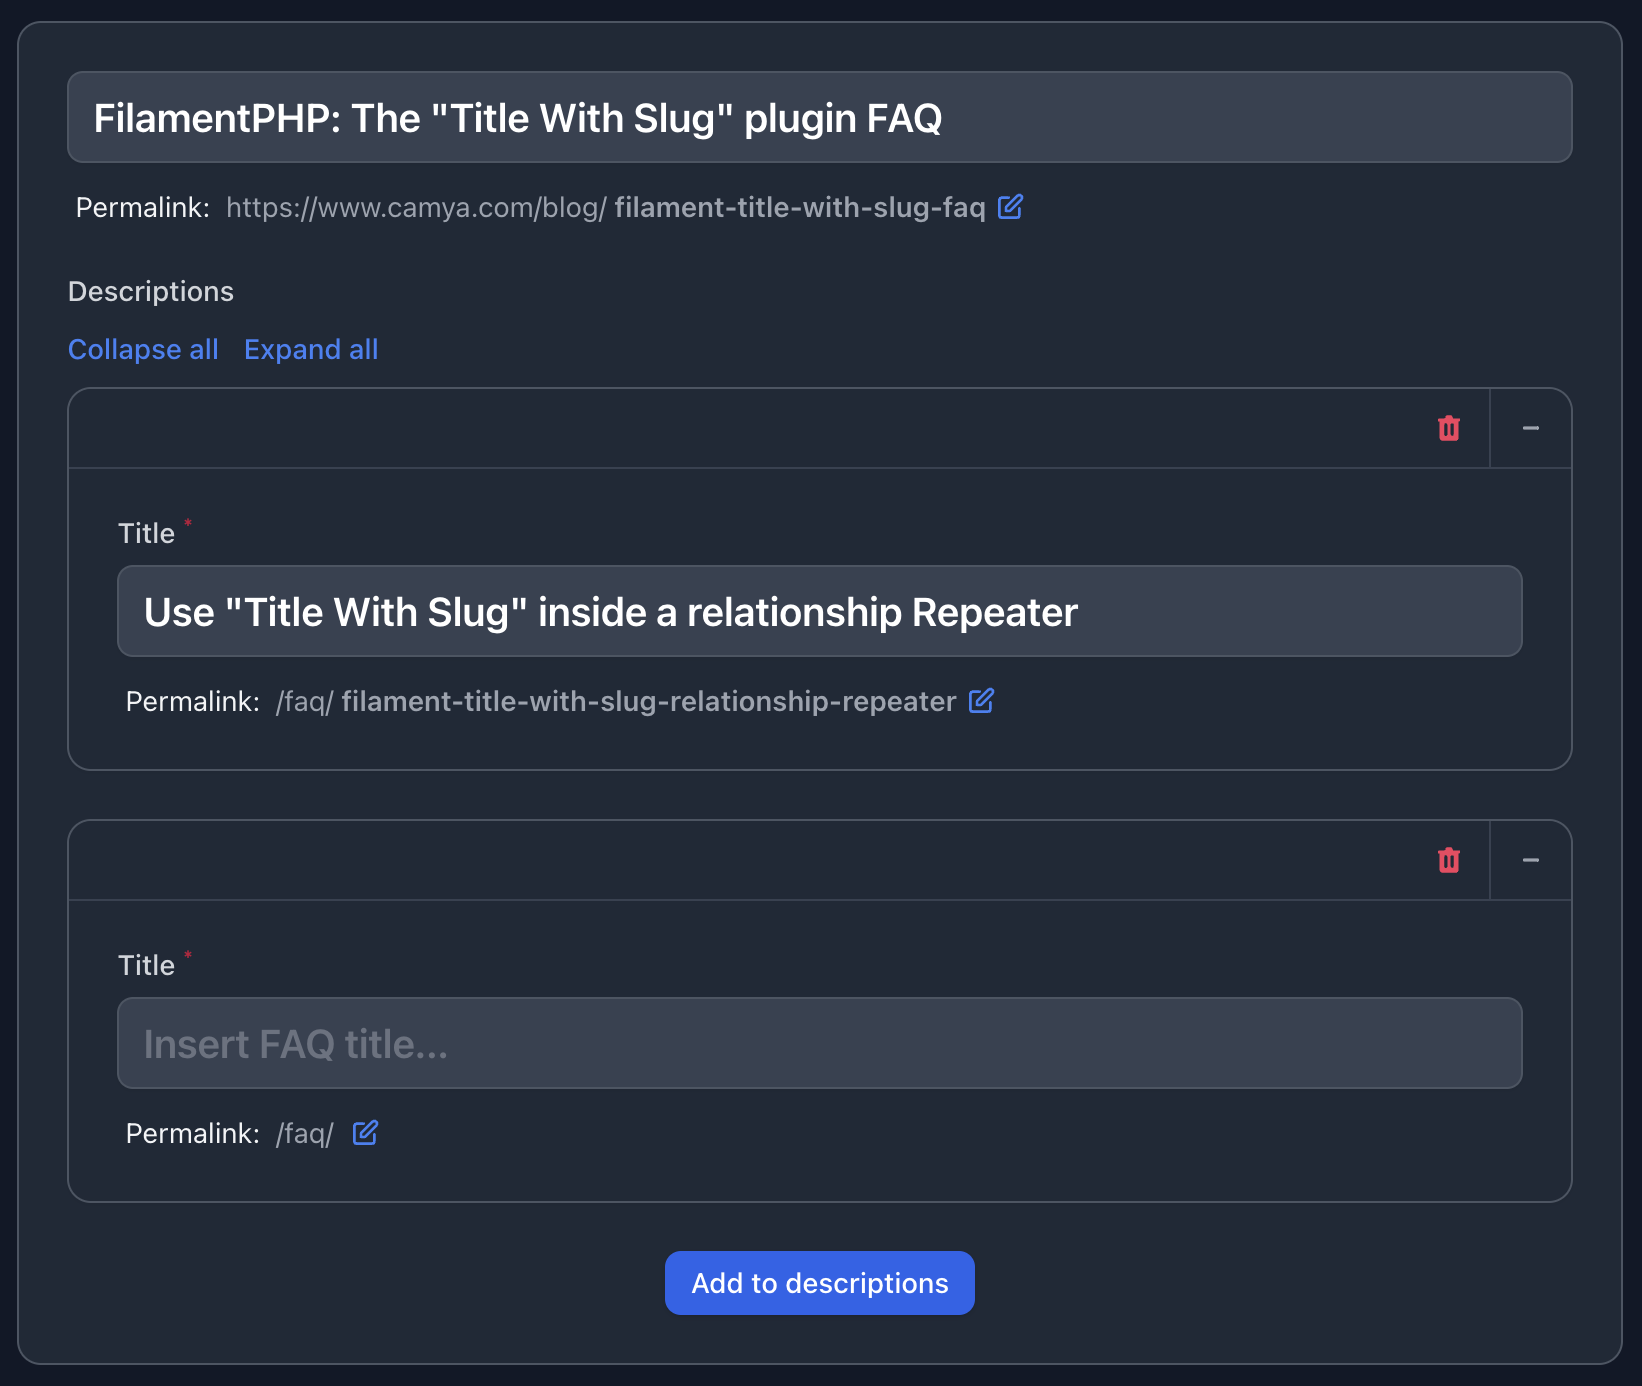
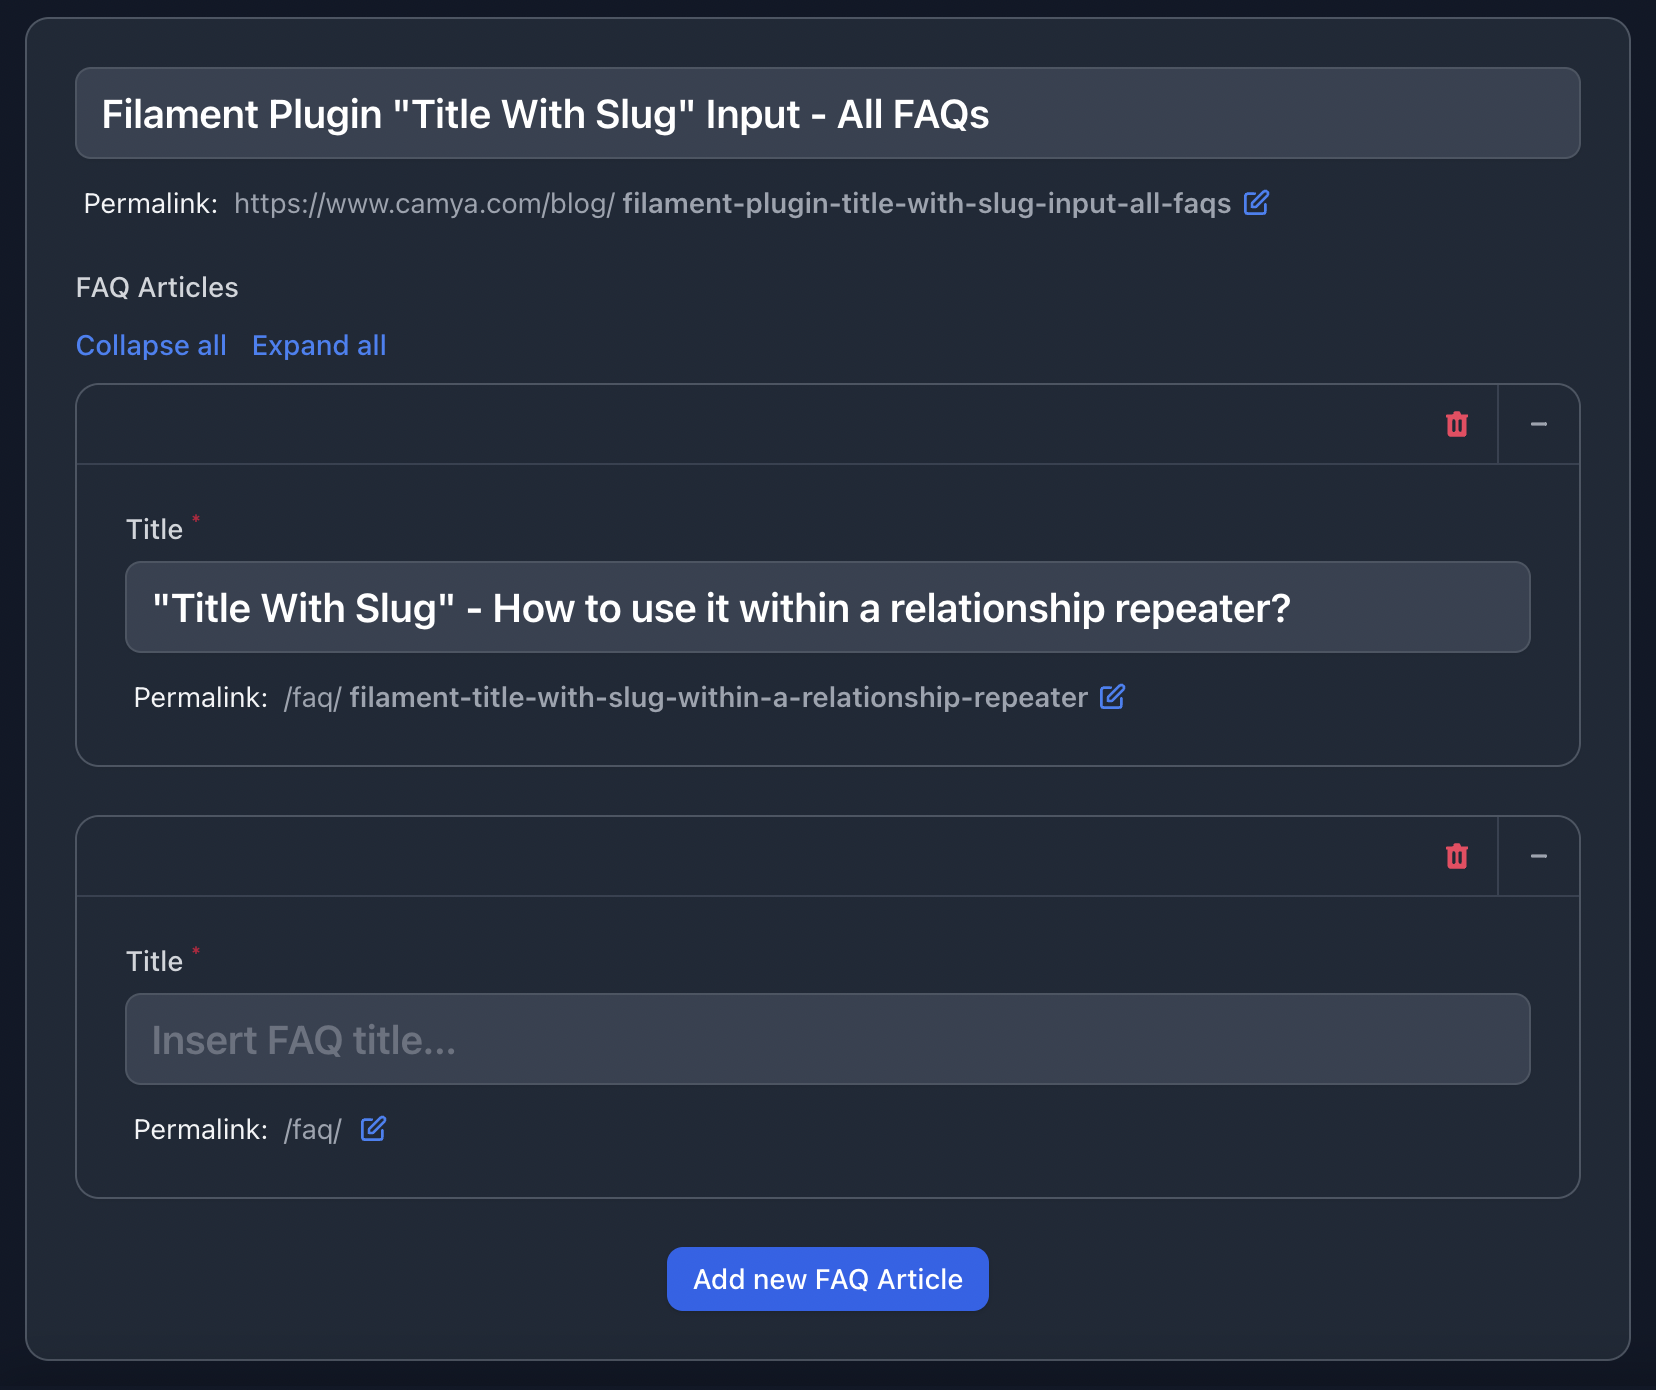
Pest Tests, titleAfterStateUpdated hook,  removed duplicate unique().
- Added Pest tests
- "composer test" now runs pest + phpstan + pint (dry)
- Added titleAfterStateUpdated & slugAfterStateUpdated, see https://github.com/camya/filament-title-with-slug/discussions/3
- Optimized slugAutoUpdateDisabled
- Placeholder now generated with headline() instead of title()
- Removed duplicate unique() in SlugInput, see https://github.com/camya/filament-title-with-slug/discussions/4
- Optimized slugify() method.

diff --git a/tests/Forms/Components/TitleWithSlugInputTest.php b/tests/Forms/Components/TitleWithSlugInputTest.php
@@ -1,0 +1,86 @@
+<?php
+
+use Camya\Filament\Forms\Components\TitleWithSlugInput;
+use Camya\Filament\Tests\Support\TestableForm;
+use Livewire\Livewire;
+
+it('returns OK if component is used', function () {
+    TestableForm::$formSchema = [
+
+        TitleWithSlugInput::make(),
+
+    ];
+
+    $component = Livewire::test(TestableForm::class);
+
+    $component->assertOk();
+});
+
+it('fills view correctly with default component parameters', function () {
+    TestableForm::$formSchema = [
+
+        TitleWithSlugInput::make(),
+
+    ];
+
+    $component = Livewire::test(TestableForm::class)
+        ->set([
+            'data.title' => 'Persisted Title',
+            'data.slug' => 'persisted-slug',
+        ]);
+
+    $component
+        ->assertSeeHtml('wire:model="data.title"')
+        ->assertSeeHtml('wire:model="data.slug"')
+        ->assertSet('data.title', 'Persisted Title')
+        ->assertSet('data.slug', 'persisted-slug')
+        ->assertSeeHtml('<span class="mr-1">&shy;persisted-slug</span>');
+});
+
+it('fills view correctly with overwritten component parameters', function () {
+    TestableForm::$formSchema = [
+
+        TitleWithSlugInput::make(
+            fieldTitle: 'TitleFieldName',
+            fieldSlug: 'SlugFieldName',
+            urlVisitLinkLabel: '*Visit Link Label*',
+            titleLabel: '*Title Label*',
+            titlePlaceholder: '*Title Placeholder*',
+            slugLabel: '*Slug Label*',
+        ),
+
+    ];
+
+    $component = Livewire::test(TestableForm::class)
+        ->set([
+            'data.TitleFieldName' => 'Persisted Title',
+            'data.SlugFieldName' => 'persisted-slug',
+        ]);
+
+    $component
+        ->assertSeeHtml('wire:model="data.TitleFieldName"')
+        ->assertSeeHtml('wire:model="data.SlugFieldName"')
+        ->assertSee('*Title Label*')
+        ->assertSee('*Slug Label*')
+        ->assertSee('*Visit Link Label*')
+        ->assertSeeHtml('placeholder="*Title Placeholder*"');
+});
+
+it('does not show the visit link if it is set invisible', function () {
+    TestableForm::$formSchema = [
+
+        TitleWithSlugInput::make(
+            urlVisitLinkVisible: false,
+            urlVisitLinkLabel: '*Visit Link Label*',
+        ),
+
+    ];
+
+    $component = Livewire::test(TestableForm::class)
+        ->set([
+            'data.TitleFieldName' => 'Persisted Title',
+            'data.SlugFieldName' => 'persisted-slug',
+        ]);
+
+    $component->assertDontSee('*Visit Link Label*');
+});

diff --git a/src/Forms/Components/TitleWithSlugInput.php b/src/Forms/Components/TitleWithSlugInput.php
@@ -7,6 +7,7 @@ use Closure;
 use Filament\Forms\Components\Group;
 use Filament\Forms\Components\Hidden;
 use Filament\Forms\Components\TextInput;
+use Filament\Support\Components\Component;
 use Illuminate\Database\Eloquent\Model;
 use Illuminate\Support\Str;
 
@@ -36,6 +37,7 @@ class TitleWithSlugInput
         ],
         array $titleRuleUniqueParameters = [],
         bool|Closure $titleIsReadonly = false,
+        null|Closure $titleAfterStateUpdated = null,
 
         // Slug
         string|null $slugLabel = null,
@@ -45,17 +47,16 @@ class TitleWithSlugInput
         ],
         array $slugRuleUniqueParameters = [],
         bool|Closure $slugIsReadonly = false,
+        null|Closure $slugAfterStateUpdated = null,
         null|Closure $slugSlugifier = null,
         string|Closure|null $slugRuleRegex = '/^[a-z0-9\-\_]*$/',
 
     ): Group {
-
         $fieldTitle = $fieldTitle ?? config('filament-title-with-slug.field_title');
         $fieldSlug = $fieldSlug ?? config('filament-title-with-slug.field_slug');
         $urlHost = $urlHost ?? config('filament-title-with-slug.url_host');
 
         /** Input: "Title" */
-
         $textInput = TextInput::make($fieldTitle)
             ->disabled($titleIsReadonly)
             ->autofocus()
@@ -67,14 +68,21 @@ class TitleWithSlugInput
             ->beforeStateDehydrated(fn (TextInput $component, $state) => $component->state(trim($state)))
             ->afterStateUpdated(
 
-                function ($state, Closure $set, Closure $get, string $context, ?Model $record) use (
+                function (
+                    $state,
+                    Closure $set,
+                    Closure $get,
+                    string $context,
+                    ?Model $record,
+                    Component $component
+                ) use (
                     $slugSlugifier,
-                    $fieldSlug
+                    $fieldSlug,
+                    $titleAfterStateUpdated,
                 ) {
-
                     $slugAutoUpdateDisabled = $get('slug_auto_update_disabled');
 
-                    if ($context === 'edit' && $record?->slug) {
+                    if ($context === 'edit' && filled($record)) {
                         $slugAutoUpdateDisabled = true;
                     }
 
@@ -82,12 +90,15 @@ class TitleWithSlugInput
                         $set($fieldSlug, self::slugify($slugSlugifier, $state));
                     }
 
+                    if ($titleAfterStateUpdated) {
+                        $component->evaluate($titleAfterStateUpdated);
+                    }
                 }
 
             );
 
         if ($titlePlaceholder !== '') {
-            $textInput->placeholder($titlePlaceholder ?: fn () => Str::of($fieldTitle)->title());
+            $textInput->placeholder($titlePlaceholder ?: fn () => Str::of($fieldTitle)->headline());
         }
 
         if (! $titleLabel) {
@@ -103,7 +114,6 @@ class TitleWithSlugInput
         }
 
         /** Input: "Slug" (+ view) */
-
         $slugInput = SlugInput::make($fieldSlug)
 
             // Custom SlugInput methods
@@ -113,7 +123,7 @@ class TitleWithSlugInput
             ->slugInputContext(fn ($context) => $context === 'create' ? 'create' : 'edit')
             ->slugInputRecordSlug(fn (?Model $record) => $record?->$fieldSlug)
             ->slugInputModelName(fn (?Model $record) => $record
-                ? Str::of(class_basename($record))->title()
+                ? Str::of(class_basename($record))->headline()
                 : ''
             )
             ->slugInputLabelPrefix($slugLabel)
@@ -129,11 +139,19 @@ class TitleWithSlugInput
             ->disableLabel()
             ->regex($slugRuleRegex)
             ->rules($slugRules)
-            ->unique(ignorable: fn (?Model $record) => $record)
             ->afterStateUpdated(
 
-                function ($state, Closure $set, Closure $get) use ($slugSlugifier, $fieldTitle, $fieldSlug) {
-
+                function (
+                    $state,
+                    Closure $set,
+                    Closure $get,
+                    Component $component
+                ) use (
+                    $slugSlugifier,
+                    $fieldTitle,
+                    $fieldSlug,
+                    $slugAfterStateUpdated,
+                ) {
                     $text = trim($state) === ''
                         ? $get($fieldTitle)
                         : $get($fieldSlug);
@@ -142,6 +160,9 @@ class TitleWithSlugInput
 
                     $set('slug_auto_update_disabled', true);
 
+                    if ($slugAfterStateUpdated) {
+                        $component->evaluate($slugAfterStateUpdated);
+                    }
                 }
 
             );
@@ -151,7 +172,6 @@ class TitleWithSlugInput
             : $slugInput->unique(ignorable: fn (?Model $record) => $record);
 
         /** Input: "Slug Auto Update Disabled" (Hidden) */
-
         $hiddenInputSlugAutoUpdateDisabled = Hidden::make('slug_auto_update_disabled')
             ->dehydrated(false);
 
@@ -166,9 +186,9 @@ class TitleWithSlugInput
     }
 
     /** Fallback slugifier, over-writable with slugSlugifier parameter. */
-    protected static function slugify(Closure|null $slugifier, string $text): string
+    protected static function slugify(Closure|null $slugifier, string|null $text): string
     {
-        if (! trim($text)) {
+        if (is_null($text) || ! trim($text)) {
             return '';
         }
 

diff --git a/tests/Support/TestableForm.php b/tests/Support/TestableForm.php
@@ -1,0 +1,41 @@
+<?php
+
+namespace Camya\Filament\Tests\Support;
+
+use Filament\Forms\Concerns\InteractsWithForms;
+use Filament\Forms\Contracts\HasForms;
+use Illuminate\Database\Eloquent\Model;
+use Livewire\Component;
+
+class TestableForm extends Component implements HasForms
+{
+    use InteractsWithForms;
+
+    public static array $formSchema = [];
+
+    public array $data = [];
+
+    public $record;
+
+    protected $listeners = ['$refresh'];
+
+    public function render()
+    {
+        return view('filament-title-with-slug::tests.support.testable-form');
+    }
+
+    protected function getFormModel(): Model|string|null
+    {
+        return $this->record;
+    }
+
+    public function getFormSchema(): array
+    {
+        return static::$formSchema;
+    }
+
+    public function getFormStatePath(): ?string
+    {
+        return 'data';
+    }
+}

diff --git a/tests/Support/Record.php b/tests/Support/Record.php
@@ -1,0 +1,18 @@
+<?php
+
+namespace Camya\Filament\Tests\Support;
+
+use Illuminate\Database\Eloquent\Factories\HasFactory;
+use Illuminate\Database\Eloquent\Model;
+
+class Record extends Model
+{
+    use HasFactory;
+
+    protected $guarded = [];
+
+    public static function newFactory(): RecordFactory
+    {
+        return RecordFactory::new();
+    }
+}

diff --git a/tests/Support/RecordFactory.php b/tests/Support/RecordFactory.php
@@ -1,0 +1,15 @@
+<?php
+
+namespace Camya\Filament\Tests\Support;
+
+use Illuminate\Database\Eloquent\Factories\Factory;
+
+class RecordFactory extends Factory
+{
+    protected $model = Record::class;
+
+    public function definition()
+    {
+        return [];
+    }
+}

diff --git a/tests/TestCase.php b/tests/TestCase.php
@@ -2,8 +2,12 @@
 
 namespace Camya\Filament\Tests;
 
+use BladeUI\Heroicons\BladeHeroiconsServiceProvider;
+use BladeUI\Icons\BladeIconsServiceProvider;
 use Camya\Filament\FilamentTitleWithSlugServiceProvider;
-use Illuminate\Database\Eloquent\Factories\Factory;
+use Filament\Forms\FormsServiceProvider;
+use Filament\Support\SupportServiceProvider;
+use Livewire\LivewireServiceProvider;
 use Orchestra\Testbench\TestCase as Orchestra;
 
 class TestCase extends Orchestra
@@ -11,16 +15,17 @@ class TestCase extends Orchestra
     protected function setUp(): void
     {
         parent::setUp();
-
-        Factory::guessFactoryNamesUsing(
-            fn (string $modelName) => 'Camya\\Filament\\Database\\Factories\\'.class_basename($modelName).'Factory'
-        );
     }
 
     protected function getPackageProviders($app)
     {
         return [
             FilamentTitleWithSlugServiceProvider::class,
+            LivewireServiceProvider::class,
+            FormsServiceProvider::class,
+            SupportServiceProvider::class,
+            BladeIconsServiceProvider::class,
+            BladeHeroiconsServiceProvider::class,
         ];
     }
 

diff --git a/resources/views/tests/support/testable-form.blade.php b/resources/views/tests/support/testable-form.blade.php
@@ -1,0 +1,3 @@
+<div>
+    {{ $this->form }}
+</div>

diff --git a/README.md b/README.md
@@ -446,8 +446,9 @@ Below is an example with some defaults overridden.
         'callback' => fn(Unique $rule) => $rule->where('is_published', 1),
         'ignorable' => fn(?Model $record) => $record,
     ],
-    titleIsReadonly: fn($context) => => $context !== 'create',
-
+    titleIsReadonly: fn($context) => $context !== 'create',
+    titleAfterStateUpdated: fn ($state) => $state,
+    
     // Slug
     slugLabel: 'The Slug: ',
     slugRules: [
@@ -458,9 +459,10 @@ Below is an example with some defaults overridden.
         'callback' => fn(Unique $rule) => $rule->where('is_published', 1),
         'ignorable' => fn(?Model $record) => $record,
     ],
-    slugIsReadonly: fn($context) => => $context !== 'create',
+    slugIsReadonly: fn($context) => $context !== 'create',
     slugSlugifier: fn($string) => Str::slug($string),
     slugRuleRegex: '/^[a-z0-9\-\_]*$/',
+    slugAfterStateUpdated: fn ($state) => $state,
 
 )->columnSpan('full'),
 ```
@@ -493,6 +495,7 @@ and
 
 This package was inspired by a package
 by [awcodes](https://github.com/awcodes/) and the work of [spatie](https://github.com/spatie/).
+Thanks also to [ralphjsmit](https://github.com/ralphjsmit/) for his blueprint that I used to implement the Filament Component [Pest Tests](https://pestphp.com/).
 
 ## License
 